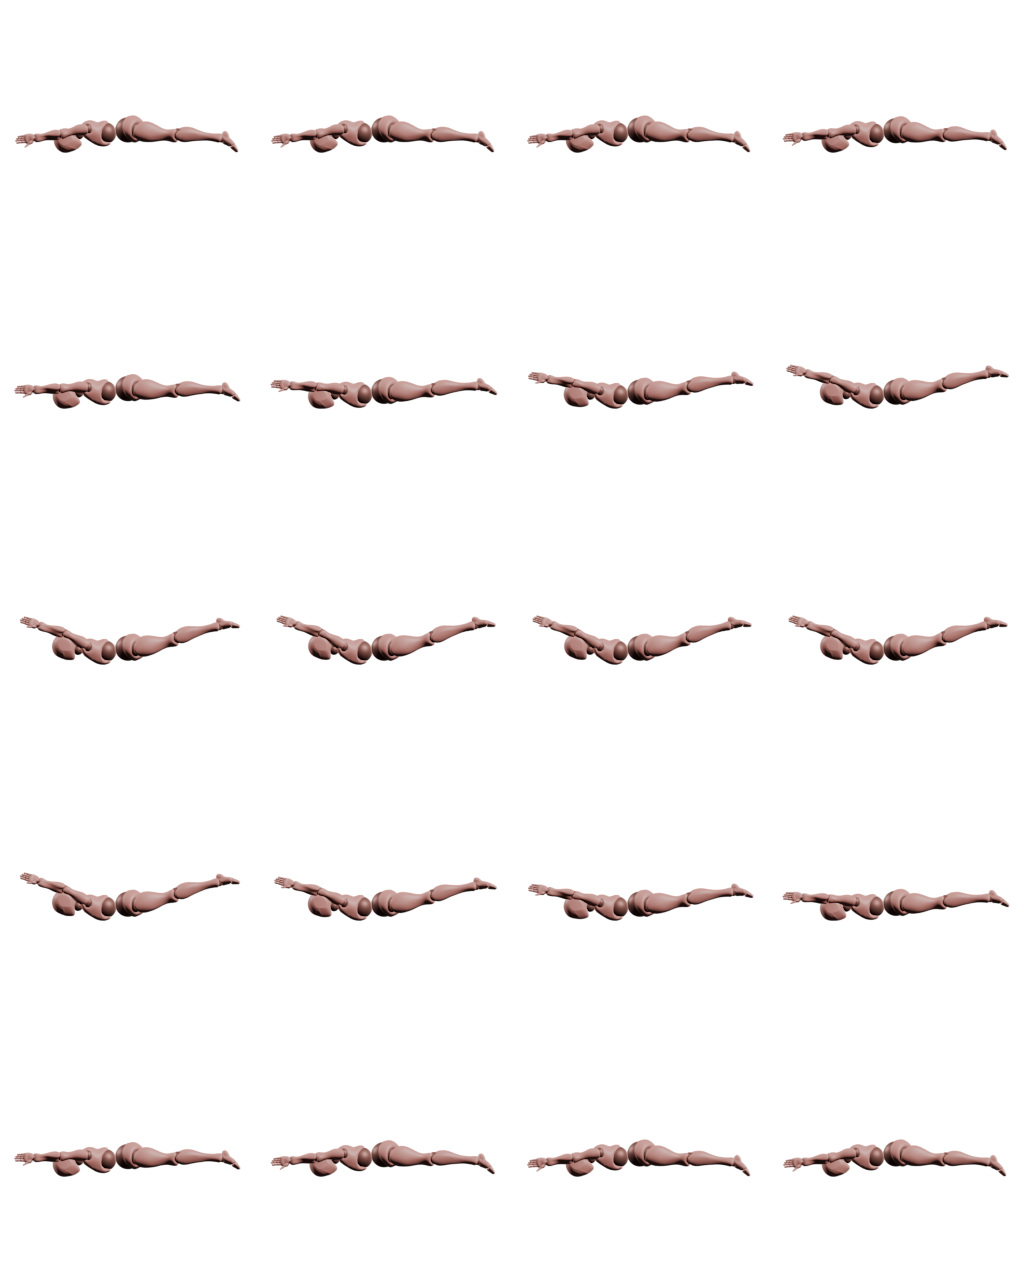
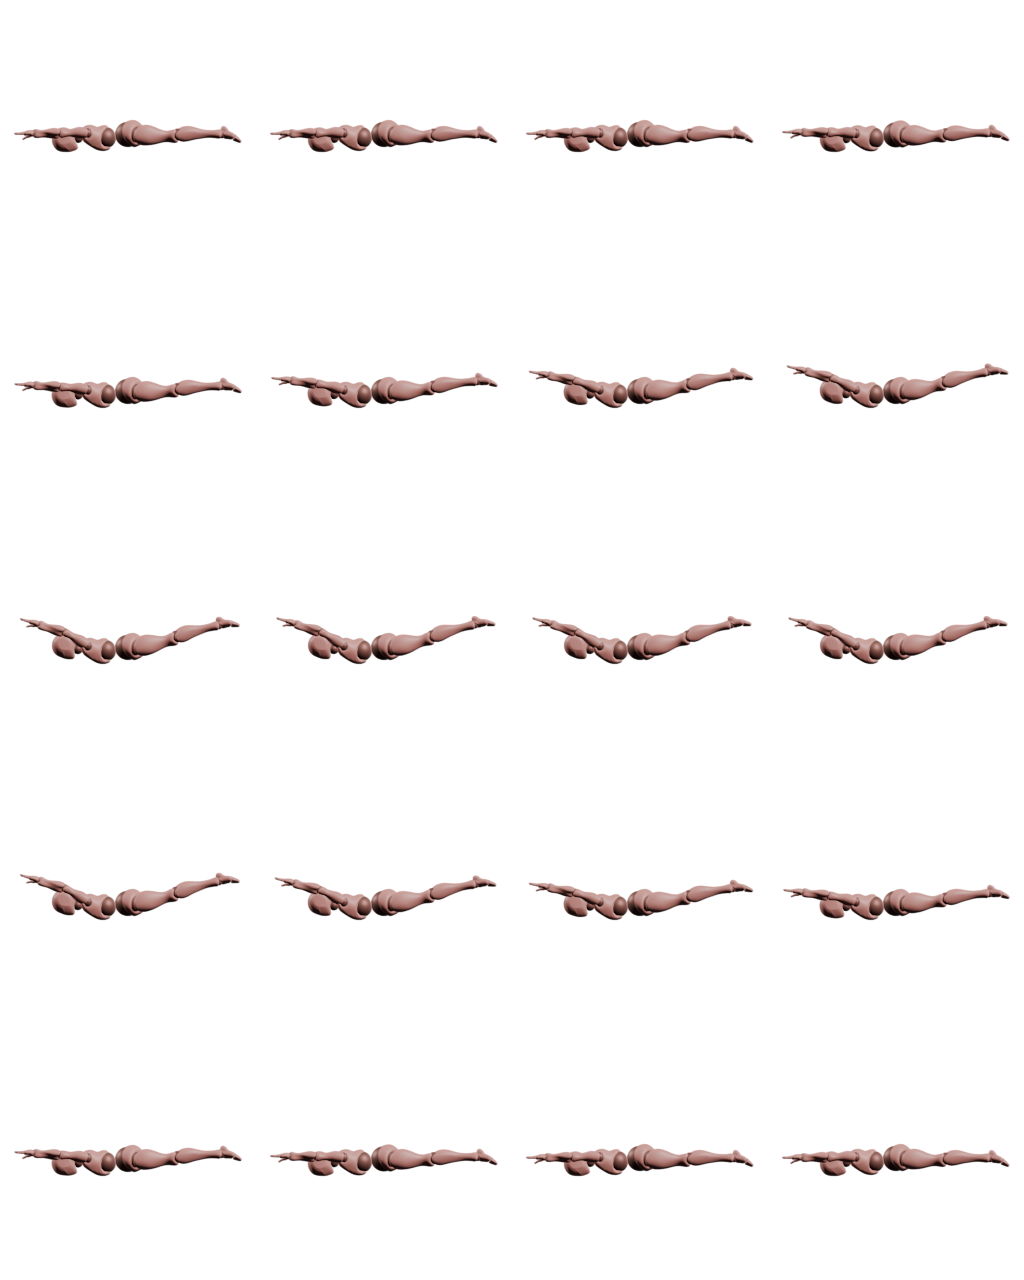
Le corps à plat, les mains sur la barre, le buste qui tourne
## Superman : quatre points bas successifs, un par correction

Le bassin restait six centimètres plus haut à plat qu'en position haute,
alors que c'est à plat qu'il devrait être collé au tapis. La cause tient en
une phrase : l'ancrage pose le point le plus **bas** du maillage à zéro, donc
tout segment incliné vers le bas soulève le reste du corps.

Il a fallu quatre passes pour en venir à bout, parce qu'à chaque correction
un autre bout du corps prenait le relais : la tête plongeante d'abord, puis
les orteils pointés — repérés à y = -1,13, tout au bout du corps —, puis le
pouce, trois centimètres sous le poignet parce que la main pendait sur le
chant. À chaque fois le bassin descendait d'un centimètre.

La pose à plat est donc **exactement horizontale** : bras, avant-bras,
cuisses, tibias et pieds tous à z = 0, paumes posées à plat, menton relevé de
huit degrés pour qu'il ne touche pas le premier. Le corps repose alors sur
son épaisseur, et le bassin passe de 21 cm à 16 — contre 15 en position
haute.

## Rowing inversé : les mains glissaient sur la barre

Sept centimètres, mesurés : 0,85 m en bas contre 0,92 en haut. La barre
était trop haute pour un bras tendu depuis l'épaule basse — 0,63 m à
franchir pour un membre de 0,56 — et `atteindre`, ne pouvant pas atteindre,
tendait le bras vers la cible en s'arrêtant court.

Deux contraintes se contredisaient : les talons au sol tirent la hanche vers
le bas, la main sur la barre demande une épaule assez haute. C'est la barre
[…]

diff --git a/scripts/gestes_generes.py b/scripts/gestes_generes.py
@@ -1005,8 +1005,19 @@ GESTES = {
                 _os("Spine"): (+0.00, +1.00, +0.00),
                 _os("Spine1"): (+0.00, +1.00, +0.00),
                 _os("Spine2"): (+0.00, +1.00, +0.00),
-                _os("Neck"): (+0.00, +0.98, -0.20),
-                _os("Head"): (+0.00, +0.98, -0.20),
+                # La tête reste **dans l'axe du corps**. Elle plongeait de
+                # onze degrés, ce qui suffisait à en faire le point le plus bas
+                # du maillage : l'ancrage posait alors le front au sol et
+                # soulevait tout le reste. Mesuré, le bassin montait à 21 cm à
+                # plat contre 15 en position haute — il se relevait au moment
+                # même où il aurait dû être collé au tapis.
+                # Le menton se relève d'à peine huit degrés : à l'horizontale
+                # pile, c'est lui qui touchait le premier et le bassin restait
+                # trois centimètres au-dessus de sa hauteur haute. Front au
+                # tapis, regard juste devant — la position d'un superman avant
+                # qu'il monte.
+                _os("Neck"): (+0.00, +0.997, +0.070),
+                _os("Head"): (+0.00, +0.990, +0.140),
                 # Bras **presque horizontaux**, et c'est toute la correction de
                 # cette pose.
                 #
@@ -1020,27 +1031,50 @@ GESTES = {
                 #
                 # Onze degrés suffisent à amener la main au sol depuis
                 # l'épaule, et le point le plus bas redevient le ventre.
-                _os("LeftArm"): (+0.00, +0.980, -0.199),
-                _os("RightArm"): (+0.00, +0.980, -0.199),
-                _os("LeftForeArm"): (+0.00, +0.990, -0.141),
-                _os("RightForeArm"): (+0.00, +0.990, -0.141),
+                # Tout est **exactement horizontal**, et c'est la seule façon
+                # d'obtenir un corps réellement à plat.
+                #
+                # Chaque segment qu'on incline vers le bas devient le point le
+                # plus bas du maillage, et l'ancrage — qui pose ce point-là à
+                # zéro — soulève alors tout le reste. On l'a payé trois fois de
+                # suite : d'abord la tête plongeante, puis les orteils pointés à
+                # y = -1,13, puis le pouce sous le poignet. À chaque correction
+                # le bassin descendait d'un centimètre et un autre bout du corps
+                # prenait le relais.
+                #
+                # À plat, le corps repose sur son épaisseur — ventre, poitrine,
+                # cuisses — exactement comme un corps posé au sol, et le bassin
+                # retrouve la hauteur qu'il a en position haute.
+                _os("LeftArm"): (+0.00, +1.00, +0.00),
+                _os("RightArm"): (+0.00, +1.00, +0.00),
+                _os("LeftForeArm"): (+0.00, +1.00, +0.00),
+                _os("RightForeArm"): (+0.00, +1.00, +0.00),
                 # La main prolonge l'avant-bras. Le relevé la renvoyait
                 # relevée de quinze degrés vers le plafond pendant que
                 # l'avant-bras plongeait : l'estimateur n'a pas de poignet
                 # orienté, et un bras tendu au sol n'a pas de raison de casser
                 # au poignet.
-                _os("LeftHand"): SUIVRE,
-                _os("RightHand"): SUIVRE,
-                _os("LeftUpLeg"): (+0.00, -0.995, -0.10),
-                _os("RightUpLeg"): (+0.00, -0.995, -0.10),
-                _os("LeftLeg"): (+0.00, -0.995, -0.10),
-                _os("RightLeg"): (+0.00, -0.995, -0.10),
+                _os("LeftHand"): APlat((+0.00, +1.00, +0.00), paume=(0, 0, -1)),
+                _os("RightHand"): APlat((+0.00, +1.00, +0.00), paume=(0, 0, -1)),
+                _os("LeftUpLeg"): (+0.00, -1.00, +0.00),
+                _os("RightUpLeg"): (+0.00, -1.00, +0.00),
+                _os("LeftLeg"): (+0.00, -1.00, +0.00),
+                _os("RightLeg"): (+0.00, -1.00, +0.00),
                 # Pieds posés, cou-de-pied au sol : le pied prolonge la jambe
                 # en plongeant à peine. Le relevé le donnait à soixante degrés
                 # sous l'horizontale, ce qui plantait les orteils dans le
                 # plancher — l'estimateur voit mal un pied de profil au sol.
-                _os("LeftFoot"): (+0.00, -0.95, -0.31),
-                _os("RightFoot"): (+0.00, -0.95, -0.31),
+                # Le **cou-de-pied** repose, orteils à peine plus bas que la
+                # cheville. C'est ce qui décidait de tout : pointés de dix-huit
+                # degrés, les orteils devenaient le point le plus bas du
+                # maillage — mesuré à y = -1,12, tout au bout du corps — et
+                # l'ancrage soulevait le reste pour les poser. Le bassin montait
+                # ainsi à 21 cm à plat contre 15 en position haute.
+                #
+                # Aplatis, c'est le ventre qui touche, dans les deux poses, et
+                # le bassin garde la même hauteur d'un bout à l'autre.
+                _os("LeftFoot"): (+0.00, -1.00, +0.00),
+                _os("RightFoot"): (+0.00, -1.00, +0.00),
             }),
             # Décollé. Bras et jambes montent ensemble, poitrine dégagée.
             _pose({
@@ -1053,8 +1087,8 @@ GESTES = {
                 _os("RightArm"): (+0.00, +0.85, +0.53),
                 _os("LeftForeArm"): (+0.00, +0.95, +0.30),
                 _os("RightForeArm"): (+0.00, +0.95, +0.30),
-                _os("LeftHand"): SUIVRE,
-                _os("RightHand"): SUIVRE,
+                _os("LeftHand"): APlat((+0.00, +0.95, +0.31), paume=(0, 0, -1)),
+                _os("RightHand"): APlat((+0.00, +0.95, +0.31), paume=(0, 0, -1)),
                 _os("LeftUpLeg"): (+0.00, -0.97, +0.26),
                 _os("RightUpLeg"): (+0.00, -0.97, +0.26),
                 _os("LeftLeg"): (+0.00, -0.97, +0.26),
@@ -1177,7 +1211,7 @@ GESTES = {
         "symetrique": False,
         # Un temps de chaque côté, rien au centre — on y passe, on ne s'y
         # arrête pas.
-        "pauses": [0.14, 0.00, 0.14],
+        "pauses": [0.10, 0.00, 0.10],
         "cles": [
             # Mains à **gauche** du personnage. Debout comme couché sur le dos,
             # sa gauche est en +X.
@@ -1192,8 +1226,15 @@ GESTES = {
                 # deux directions. Un appui par bras sur la même cible les tient
                 # ensemble d'un bout à l'autre du balancement, ce que deux
                 # directions ne garantissent jamais.
-                _os("LeftArm"): Appui((+0.38, 0.18, 0.36), (+1, 0, -0.3)),
-                _os("RightArm"): Appui((+0.38, 0.18, 0.36), (+1, 0, -0.3)),
+                #
+                # Vingt-quatre centimètres de part et d'autre, et pas
+                # trente-deux : au-delà, le bras opposé doit se tendre à fond
+                # pour atteindre la cible et l'on obtient deux bras raides
+                # tournoyant autour d'un buste. Ce qui porte le mouvement, c'est
+                # la rotation du buste — quarante degrés de chaque côté — et les
+                # mains restent près du ventre, comme dans la vidéo.
+                _os("LeftArm"): Appui((+0.24, 0.13, 0.26), (+1, 0, -0.3)),
+                _os("RightArm"): Appui((+0.24, 0.13, 0.26), (+1, 0, -0.3)),
                 _os("LeftHand"): SUIVRE,
                 _os("RightHand"): SUIVRE,
             }),
@@ -1207,8 +1248,8 @@ GESTES = {
                                      paume=(+0.00, -0.77, +0.64)),
                 _os("Spine2"): APlat((+0.00, +0.64, +0.77),
                                      paume=(+0.00, -0.77, +0.64)),
-                _os("LeftArm"): Appui((+0.00, 0.22, 0.42), (+1, 0, -0.3)),
-                _os("RightArm"): Appui((+0.00, 0.22, 0.42), (-1, 0, -0.3)),
+                _os("LeftArm"): Appui((+0.00, 0.16, 0.40), (+1, 0, -0.3)),
+                _os("RightArm"): Appui((+0.00, 0.16, 0.40), (-1, 0, -0.3)),
                 _os("LeftHand"): SUIVRE,
                 _os("RightHand"): SUIVRE,
             }),
@@ -1220,8 +1261,8 @@ GESTES = {
                                      paume=(-0.64, -0.59, +0.49)),
                 _os("Neck"): (-0.15, +0.62, +0.77),
                 _os("Head"): (-0.30, +0.65, +0.70),
-                _os("LeftArm"): Appui((-0.38, 0.18, 0.36), (-1, 0, -0.3)),
-                _os("RightArm"): Appui((-0.38, 0.18, 0.36), (-1, 0, -0.3)),
+                _os("LeftArm"): Appui((-0.24, 0.13, 0.26), (-1, 0, -0.3)),
+                _os("RightArm"): Appui((-0.24, 0.13, 0.26), (-1, 0, -0.3)),
                 _os("LeftHand"): SUIVRE,
                 _os("RightHand"): SUIVRE,
             }),
@@ -1255,7 +1296,7 @@ GESTES = {
         "assise": SUR_LE_DOS,
         # La barre : (y, z) dans le monde. La même paire sert aux appuis des
         # mains et au décor, ce qui rend impossible qu'ils se contredisent.
-        "barre": (0.42, 0.95),
+        "barre": (0.39, 0.83),
         # Poings fermés : on **tient** la barre. Main ouverte, les doigts la
         # traversaient et le personnage paraissait la pousser plutôt que s'y
         # suspendre — la même faute que la corde à sauter, et le même remède.
@@ -1280,8 +1321,8 @@ GESTES = {
                 # Les mains **tiennent** la barre : on connaît le point, pas
                 # l'angle. C'est ce qu'un appui exprime, et c'est ce qui
                 # garantit qu'elles n'en décollent pas d'une image à l'autre.
-                _os("LeftArm"): Appui((+0.25, 0.42, 0.95), (0, -0.95, -0.30)),
-                _os("RightArm"): Appui((-0.25, 0.42, 0.95), (0, -0.95, -0.30)),
+                _os("LeftArm"): Appui((+0.15, 0.39, 0.83), (0, -0.95, -0.30)),
+                _os("RightArm"): Appui((-0.15, 0.39, 0.83), (0, -0.95, -0.30)),
                 _os("LeftHand"): SUIVRE,
                 _os("RightHand"): SUIVRE,
                 _os("LeftUpLeg"): (+0.03, -0.974, -0.225),
@@ -1300,8 +1341,8 @@ GESTES = {
                 _os("Spine2"): (+0.00, +0.883, +0.469),
                 _os("Neck"): (+0.00, +0.883, +0.469),
                 _os("Head"): (+0.00, +0.930, +0.367),
-                _os("LeftArm"): Appui((+0.25, 0.42, 0.95), (0, -0.95, -0.30)),
-                _os("RightArm"): Appui((-0.25, 0.42, 0.95), (0, -0.95, -0.30)),
+                _os("LeftArm"): Appui((+0.15, 0.39, 0.83), (0, -0.95, -0.30)),
+                _os("RightArm"): Appui((-0.15, 0.39, 0.83), (0, -0.95, -0.30)),
                 _os("LeftHand"): SUIVRE,
                 _os("RightHand"): SUIVRE,
                 _os("LeftUpLeg"): (+0.03, -0.879, -0.476),
